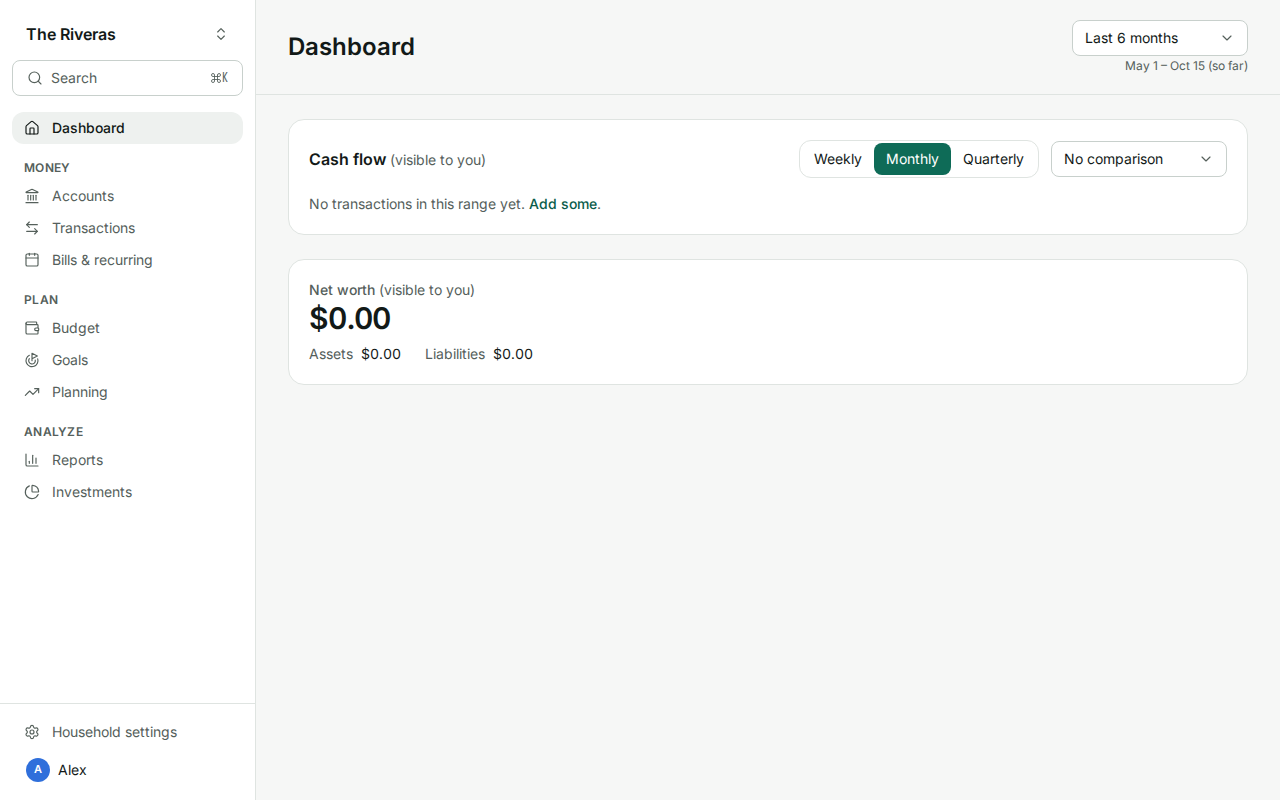
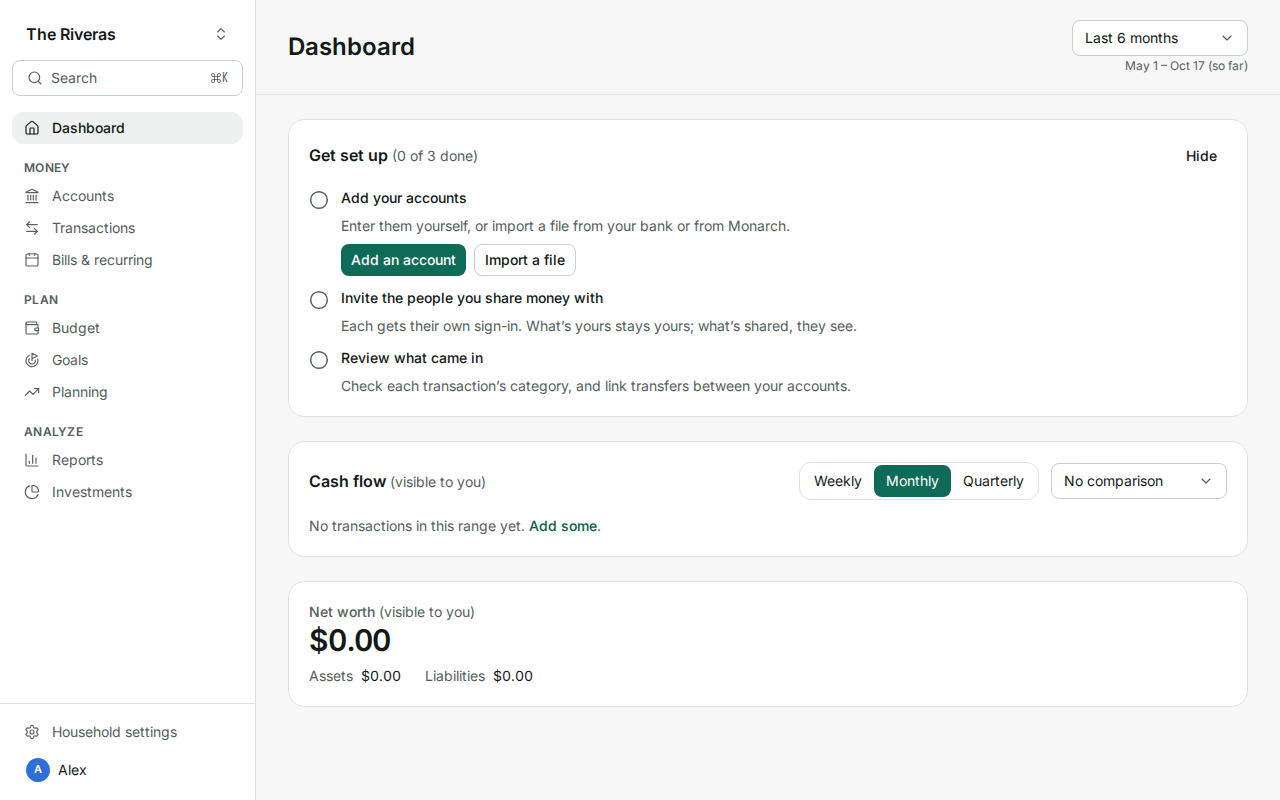
feat(web): a first-run checklist on the dashboard (#354) (#367)
* feat(web): a first-run checklist on the dashboard (#354)

After setup you landed on an empty dashboard with nothing pointing to
the next step. A "Get set up" card now lists them: add or import
accounts, invite the people you share money with (households created
for more than one), and review what came in. Each ticks off as it's
done; the card closes for good once all are, or when hidden.

Setup saves a `first-run` member preference that turns it on, so
households from before don't get it.

Claude-Session: https://claude.ai/code/session_01PadT6CYXGULXi9FRfxr1XN

* style: format the dashboard (#354)

---------

diff --git a/apps/web/src/routes/dashboard.tsx b/apps/web/src/routes/dashboard.tsx
@@ -1,17 +1,35 @@
 // SPDX-License-Identifier: AGPL-3.0-or-later
-import type { CashFlow, CashFlowBucket, Household } from '@fiscus/shared';
-import { useQuery, useSuspenseQuery } from '@tanstack/react-query';
+import type { CashFlow, CashFlowBucket, Household, HouseholdMember } from '@fiscus/shared';
+import { useMutation, useQuery, useQueryClient, useSuspenseQuery } from '@tanstack/react-query';
 import { Link, useParams, useSearch } from '@tanstack/react-router';
 import { clsx } from 'clsx';
-import { cashFlowQuery, householdQuery, membersQuery } from '../api/queries.js';
+import { CheckCircle2, Circle } from 'lucide-react';
+import { type ReactNode, useEffect } from 'react';
+import { api } from '../api/client.js';
+import {
+  accountsQuery,
+  cashFlowQuery,
+  householdQuery,
+  membersQuery,
+  preferencesQuery,
+  reviewCountQuery,
+} from '../api/queries.js';
 import { Amount } from '../components/Amount.js';
 import { PageHeader } from '../components/PageHeader.js';
 import { CompareSelect, GranularityToggle, PeriodStepper } from '../components/RangeControls.js';
-import { Alert, Card, LoadingRegion, Skeleton } from '../components/ui.js';
+import { Alert, Button, ButtonLink, Card, LoadingRegion, Skeleton } from '../components/ui.js';
+import {
+  FIRST_RUN_KEY,
+  type FirstRun,
+  type FirstRunStepKey,
+  firstRunSteps,
+  parseFirstRun,
+} from '../lib/first-run.js';
 import { type Lens, lensVisible, parseLens } from '../lib/lens.js';
 import { bucketLabel, formatSpan, rangeParams } from '../lib/ranges.js';
 import { useRange } from '../lib/use-range.js';
 import { NetWorthCard } from './accounts.js';
+import { invitesQueryKey } from './invites.js';
 
 /** Where you stand (IA): cash flow over the chosen range, and net worth. Reports come in M7. */
 export function DashboardPage() {
@@ -27,10 +45,178 @@ export function DashboardPage() {
     <>
       <PageHeader title="Dashboard" range={range} showLens={showLens} members={members} />
       <div className="mx-auto max-w-5xl space-y-6 px-4 py-6 md:px-8">
+        <FirstRunChecklist household={household} members={members} />
         <CashFlowCard household={household} lens={lens} range={range} />
         <NetWorthCard household={household} lens={lens} range={range} />
       </div>
     </>
+  );
+}
+
+const STEPS: Record<FirstRunStepKey, { title: string; detail: string }> = {
+  accounts: {
+    title: 'Add your accounts',
+    detail: 'Enter them yourself, or import a file from your bank or from Monarch.',
+  },
+  invite: {
+    title: 'Invite the people you share money with',
+    detail: 'Each gets their own sign-in. What’s yours stays yours; what’s shared, they see.',
+  },
+  review: {
+    title: 'Review what came in',
+    detail: 'Check each transaction’s category, and link transfers between your accounts.',
+  },
+};
+
+/**
+ * What to do after setup (#354, walkthrough F1): add or import accounts, invite the others, and
+ * review what came in, each ticked off as it's done. Only for households created with it (the
+ * `first-run` preference); it closes for good once every step is done, or when hidden.
+ */
+function FirstRunChecklist({
+  household,
+  members,
+}: {
+  household: Household;
+  members: HouseholdMember[];
+}) {
+  const id = household.id;
+  const owner = household.you.role === 'owner';
+  const queryClient = useQueryClient();
+  const prefs = useQuery(preferencesQuery(id));
+  const pref = parseFirstRun(prefs.data?.[FIRST_RUN_KEY]);
+  const open = pref !== null && !pref.closed && household.you.role !== 'viewer';
+  const accounts = useQuery({ ...accountsQuery(id, 'all'), enabled: open });
+  const review = useQuery({ ...reviewCountQuery(id), enabled: open });
+  // Whether anything has come in yet: one is enough.
+  const any = useQuery({
+    queryKey: ['households', id, 'transactions', 'any'],
+    queryFn: async () =>
+      (await api<{ data: unknown[] }>('GET', `/api/v1/households/${id}/transactions?limit=1`)).data
+        .length > 0,
+    enabled: open,
+  });
+  const invites = useQuery({
+    queryKey: invitesQueryKey(id),
+    queryFn: async () =>
+      (await api<{ data: unknown[] }>('GET', `/api/v1/households/${id}/invites`)).data,
+    enabled: open && owner && pref.shared,
+  });
+  const close = useMutation({
+    mutationFn: (value: FirstRun) =>
+      api('PUT', `/api/v1/households/${id}/preferences/${FIRST_RUN_KEY}`, { body: { value } }),
+    onMutate: (value) =>
+      queryClient.setQueryData(preferencesQuery(id).queryKey, (p) => ({
+        ...p,
+        [FIRST_RUN_KEY]: value,
+      })),
+  });
+  const steps =
+    open &&
+    accounts.data &&
+    review.data &&
+    any.data !== undefined &&
+    (!invites.isEnabled || invites.data)
+      ? firstRunSteps({
+          pref,
+          role: household.you.role,
+          accounts: accounts.data.length,
+          members: members.length,
+          pendingInvites: invites.data?.length ?? 0,
+          hasTransactions: any.data,
+          toReview: review.data.count,
+        })
+      : null;
+  const allDone = steps?.every((s) => s.done) ?? false;
+  // Done once is done: new transactions to review later don't bring it back.
+  useEffect(() => {
+    if (allDone && pref) close.mutate({ ...pref, closed: true });
+    // eslint-disable-next-line react-hooks/exhaustive-deps -- once, when the last step is done
+  }, [allDone]);
+  if (!steps || allDone) return null;
+
+  const done = steps.filter((s) => s.done).length;
+  const actions: Record<FirstRunStepKey, ReactNode> = {
+    accounts: (
+      <>
+        <ButtonLink size="sm" to="/h/$householdId/accounts" params={{ householdId: id }}>
+          Add an account
+        </ButtonLink>
+        <ButtonLink
+          size="sm"
+          variant="secondary"
+          to="/h/$householdId/import"
+          params={{ householdId: id }}
+        >
+          Import a file
+        </ButtonLink>
+      </>
+    ),
+    invite: (
+      <ButtonLink
+        size="sm"
+        to="/h/$householdId/settings/members"
+        params={{ householdId: id }}
+        search={{ invite: '1' }}
+      >
+        Invite someone
+      </ButtonLink>
+    ),
+    review: (
+      <ButtonLink size="sm" to="/h/$householdId/review" params={{ householdId: id }}>
+        {review.data?.count ? `Review ${review.data.count.toLocaleString()}` : 'Start reviewing'}
+      </ButtonLink>
+    ),
+  };
+  return (
+    <Card className="space-y-4">
+      <section aria-labelledby="first-run" className="space-y-4">
+        <div className="flex flex-wrap items-baseline gap-3">
+          <h2 id="first-run" className="mr-auto font-semibold">
+            Get set up{' '}
+            <span className="text-sm font-normal text-muted">
+              ({done} of {steps.length} done)
+            </span>
+          </h2>
+          <Button
+            size="sm"
+            variant="ghost"
+            onPress={() => pref && close.mutate({ ...pref, closed: true })}
+          >
+            Hide
+          </Button>
+        </div>
+        <ol className="space-y-3">
+          {steps.map((step, i) => {
+            // The first step not done yet is the one to do now; later ones wait for it.
+            const next = !step.done && steps.findIndex((s) => !s.done) === i;
+            return (
+              <li key={step.key} className="flex gap-3">
+                {step.done ? (
+                  <CheckCircle2 aria-hidden className="mt-0.5 size-5 shrink-0 text-positive" />
+                ) : (
+                  <Circle aria-hidden className="mt-0.5 size-5 shrink-0 text-muted" />
+                )}
+                <div className="min-w-0 flex-1 space-y-2">
+                  <p className={clsx('text-sm', step.done && 'text-muted line-through')}>
+                    <span className="font-medium">{STEPS[step.key].title}</span>
+                    <span className="sr-only">{step.done ? ' (done)' : ' (to do)'}</span>
+                  </p>
+                  {step.done ? null : (
+                    <>
+                      <p className="text-sm text-muted">{STEPS[step.key].detail}</p>
+                      {next ? (
+                        <div className="flex flex-wrap gap-2">{actions[step.key]}</div>
+                      ) : null}
+                    </>
+                  )}
+                </div>
+              </li>
+            );
+          })}
+        </ol>
+      </section>
+    </Card>
   );
 }
 

diff --git a/apps/web/src/lib/first-run.test.ts b/apps/web/src/lib/first-run.test.ts
@@ -1,0 +1,46 @@
+// SPDX-License-Identifier: AGPL-3.0-or-later
+import type { MemberRole } from '@fiscus/shared';
+import { describe, expect, it } from 'vitest';
+import { firstRunSteps, parseFirstRun } from './first-run.js';
+
+describe('first-run checklist (#354)', () => {
+  const start = {
+    role: 'owner' as MemberRole,
+    accounts: 0,
+    members: 1,
+    pendingInvites: 0,
+    hasTransactions: false,
+    toReview: 0,
+  };
+  const steps = (input: Partial<typeof start> & { shared?: boolean }) =>
+    firstRunSteps({ ...start, ...input, pref: { shared: input.shared ?? false } }).map(
+      (s) => `${s.key}:${s.done ? 'done' : 'todo'}`,
+    );
+
+  it('asks for accounts, then a review of what came in', () => {
+    expect(steps({})).toEqual(['accounts:todo', 'review:todo']);
+    // An account and nothing in it yet: nothing to have reviewed.
+    expect(steps({ accounts: 1 })).toEqual(['accounts:done', 'review:todo']);
+    expect(steps({ accounts: 2, hasTransactions: true, toReview: 40 })).toEqual([
+      'accounts:done',
+      'review:todo',
+    ]);
+    expect(steps({ accounts: 2, hasTransactions: true })).toEqual(['accounts:done', 'review:done']);
+  });
+
+  it('asks owners of a household for more than one to invite them, until someone joins', () => {
+    expect(steps({ shared: true })).toEqual(['accounts:todo', 'invite:todo', 'review:todo']);
+    expect(steps({ shared: true, pendingInvites: 1 })).toContain('invite:done');
+    expect(steps({ shared: true, members: 2 })).toContain('invite:done');
+    // Only owners can invite.
+    expect(steps({ shared: true, role: 'member' })).toEqual(['accounts:todo', 'review:todo']);
+  });
+
+  it('reads only a well-formed preference', () => {
+    expect(parseFirstRun({ shared: true })).toEqual({ shared: true });
+    expect(parseFirstRun({ shared: false, closed: true })).toEqual({ shared: false, closed: true });
+    expect(parseFirstRun(undefined)).toBeNull();
+    expect(parseFirstRun({ closed: true })).toBeNull();
+    expect(parseFirstRun('yes')).toBeNull();
+  });
+});

diff --git a/apps/web/e2e/shell.spec.ts b/apps/web/e2e/shell.spec.ts
@@ -61,6 +61,12 @@ test('first run: setup creates the admin, then the first household', async ({ pa
   // Single-member household: no lens and no Shared costs (IA §5).
   await expect(page.getByRole('radiogroup', { name: 'Whose money' })).toHaveCount(0);
   await expect(nav.getByRole('link', { name: 'Shared costs' })).toHaveCount(0);
+  // What to do next (#354): accounts first; for "Me and others", inviting them; then a review.
+  const checklist = page.getByRole('region', { name: /Get set up/ });
+  await expect(checklist).toContainText('0 of 3 done');
+  await expect(checklist.getByRole('link', { name: 'Add an account' })).toBeVisible();
+  await expect(checklist.getByRole('link', { name: 'Import a file' })).toBeVisible();
+  expect(await axeViolations(page)).toEqual([]);
 });
 
 test('navigates with the command palette, shortcuts, and the range control', async ({ page }) => {
@@ -205,6 +211,19 @@ test('adds an account, updates its balance, and shows net worth', async ({ page 
   await expect(page.getByRole('link', { name: /Everyday checking/ })).toContainText('$2,750.25');
   await expect(page.getByRole('link', { name: /Everyday checking/ })).toContainText('as of');
   expect(await axeViolations(page)).toEqual([]);
+
+  // The checklist ticks off the account. The invite sent earlier was cancelled, so that's next.
+  await page.goto(householdUrl);
+  const checklist = page.getByRole('region', { name: /Get set up/ });
+  await expect(checklist).toContainText('1 of 3 done');
+  await expect(checklist.getByRole('link', { name: 'Invite someone' })).toBeVisible();
+  // Hidden, it stays hidden.
+  await checklist.getByRole('button', { name: 'Hide' }).click();
+  await expect(checklist).toHaveCount(0);
+  await page.reload();
+  await expect(page.getByRole('heading', { level: 1, name: 'Dashboard' })).toBeVisible();
+  await expect(page.getByRole('heading', { name: /Cash flow/ })).toBeVisible();
+  await expect(checklist).toHaveCount(0);
 });
 
 test('records a transaction, categorizes and splits it, and the balance follows', async ({

diff --git a/apps/web/src/lib/first-run.ts b/apps/web/src/lib/first-run.ts
@@ -1,0 +1,52 @@
+// SPDX-License-Identifier: AGPL-3.0-or-later
+import type { MemberRole } from '@fiscus/shared';
+
+/**
+ * The member preference that turns on the dashboard's first-run checklist (#354). Creating a
+ * household writes it, so households set up before the checklist existed never see it.
+ */
+export const FIRST_RUN_KEY = 'first-run';
+
+export interface FirstRun {
+  /** "Me and others" when the household was created: the checklist asks to invite them. */
+  shared: boolean;
+  /** Hidden by hand, or every step was done once: it doesn't come back. */
+  closed?: boolean;
+}
+
+/** The stored preference, or null when it's missing or not one. */
+export function parseFirstRun(value: unknown): FirstRun | null {
+  if (typeof value !== 'object' || value === null) return null;
+  const v = value as Record<string, unknown>;
+  if (typeof v.shared !== 'boolean') return null;
+  return { shared: v.shared, ...(v.closed === true ? { closed: true } : {}) };
+}
+
+export type FirstRunStepKey = 'accounts' | 'invite' | 'review';
+
+export interface FirstRunStep {
+  key: FirstRunStepKey;
+  done: boolean;
+}
+
+/**
+ * The checklist's steps, in order: add or import accounts; invite the others (owners of a
+ * household created for more than one, until someone joins or has an invite); review what came in
+ * (once something has, until nothing waits for review).
+ */
+export function firstRunSteps(input: {
+  pref: FirstRun;
+  role: MemberRole;
+  accounts: number;
+  members: number;
+  pendingInvites: number;
+  hasTransactions: boolean;
+  toReview: number;
+}): FirstRunStep[] {
+  const steps: FirstRunStep[] = [{ key: 'accounts', done: input.accounts > 0 }];
+  if (input.pref.shared && input.role === 'owner') {
+    steps.push({ key: 'invite', done: input.members > 1 || input.pendingInvites > 0 });
+  }
+  steps.push({ key: 'review', done: input.hasTransactions && input.toReview === 0 });
+  return steps;
+}

diff --git a/apps/web/src/routes/welcome.tsx b/apps/web/src/routes/welcome.tsx
@@ -16,6 +16,7 @@ import {
   SelectItem,
   TextField,
 } from '../components/ui.js';
+import { FIRST_RUN_KEY, type FirstRun } from '../lib/first-run.js';
 
 // Interim first-household screen; the full onboarding flow is #234.
 
@@ -40,6 +41,12 @@ export function WelcomePage() {
     mutationFn: (body: Record<string, string>) =>
       api<{ data: Household }>('POST', '/api/v1/households', { body }),
     onSuccess: async (r) => {
+      // Turns on the dashboard's first-run checklist (#354). Without it, the dashboard just
+      // doesn't show one, so a failure here isn't worth stopping for.
+      const value: FirstRun = { shared: who === 'shared' };
+      await api('PUT', `/api/v1/households/${r.data.id}/preferences/${FIRST_RUN_KEY}`, {
+        body: { value },
+      }).catch(() => undefined);
       await queryClient.invalidateQueries({ queryKey: ['me'] });
       await navigate({ to: `/h/${r.data.id}` });
     },

diff --git a/apps/web/walkthrough/core-ledger.spec.ts b/apps/web/walkthrough/core-ledger.spec.ts
@@ -165,6 +165,8 @@ test('1. first run: setup, then the household', async ({ page }) => {
   await expect(page).toHaveURL(/\/h\/[0-9a-f-]{36}$/);
   home = new URL(page.url()).pathname;
   await expect(page.getByRole('heading', { level: 1, name: 'Dashboard' })).toBeVisible();
+  // What to do next (#354).
+  await expect(page.getByRole('region', { name: /Get set up/ })).toBeVisible();
   await shot(page, '03-dashboard-empty');
 });
 

diff --git a/docs/design/walkthroughs/core-ledger.md b/docs/design/walkthroughs/core-ledger.md
@@ -33,7 +33,7 @@ Findings are numbered (**F1**, **F2**, …) and collected in the [gap list](#gap
 households of more than one person. The time zone comes from the device.
 
 **Gets in the way.**
-- **F1.** You land on an empty dashboard: $0 net worth, and "No transactions in this range yet. Add
+- ~~**F1.**~~ *Fixed in #367: a "Get set up" checklist on the dashboard.* You land on an empty dashboard: $0 net worth, and "No transactions in this range yet. Add
   some." Nothing suggests the obvious next steps: add or import accounts, invite your partner,
   review what came in.
 - **F2.** The sidebar lists Budget, Goals, Planning, Reports, Investments, and Bills & recurring.
@@ -290,7 +290,7 @@ import. **Medium** means it confuses or slows down a common task. **Low** is pol
 | F18 | Applying a rule to past transactions is a second step | Medium | "Also apply to N existing" checkbox in the editor | Fixed (#350) |
 | F21 | One long settings page | Medium | Sections: General, Members, Categories, Rules (moved from Transactions) | Fixed (#352) |
 | F2 | Six unbuilt sections in the navigation | — | Keep them: they show what Fiscus will have | Won't change |
-| F1 | Empty landing after setup | Medium | A first-run checklist on the dashboard (accounts, partner, review) until it's done | #354 |
+| F1 | Empty landing after setup | Medium | A first-run checklist on the dashboard (accounts, partner, review) until it's done | Fixed (#367) |
 | F5 | No balance chart on account pages | Medium | Chart at the top of the account page; change and "updated" on the list | Fixed (#353); groups in #48 |
 | F15 | Split is hard to find, and starts as two halves | Low | Split with the other actions; the second part takes the rest, uncategorized | Fixed (#350) |
 | F4 | "No transactions match" on a new account | Low | "No transactions yet", with Add and Import | Fixed (#350) |
